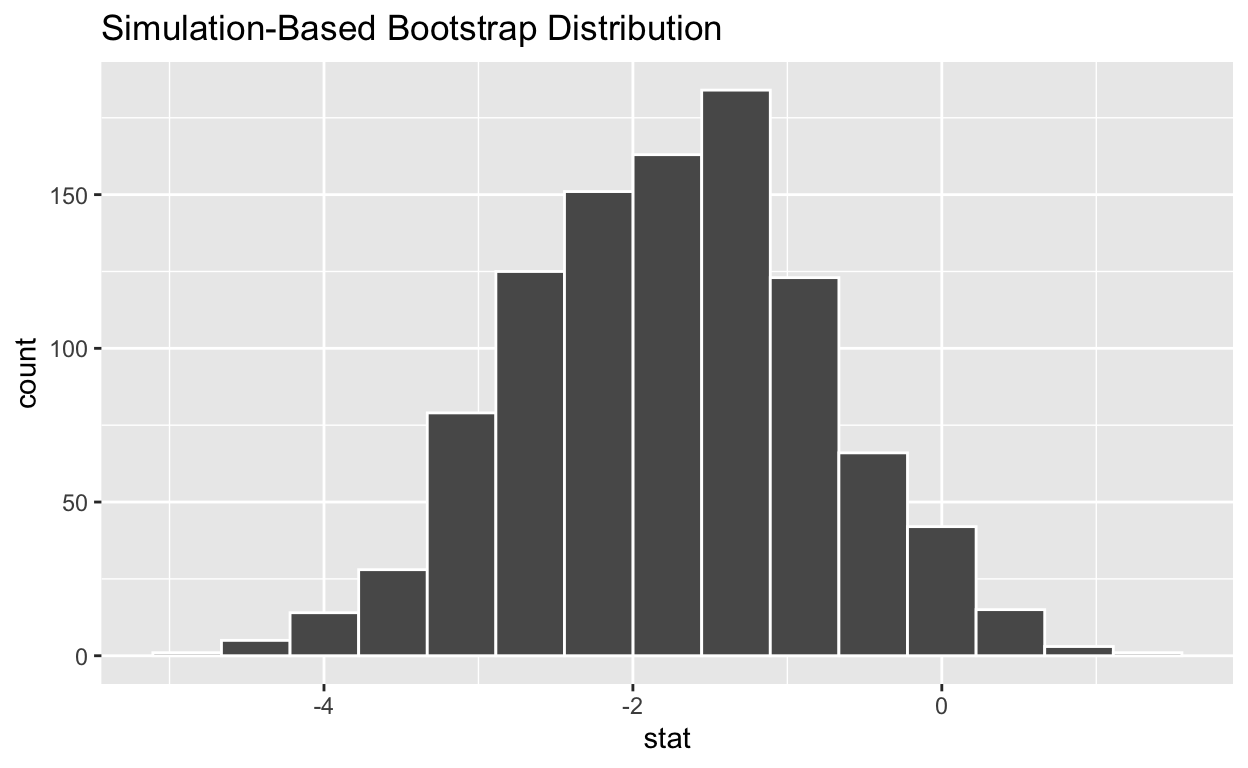
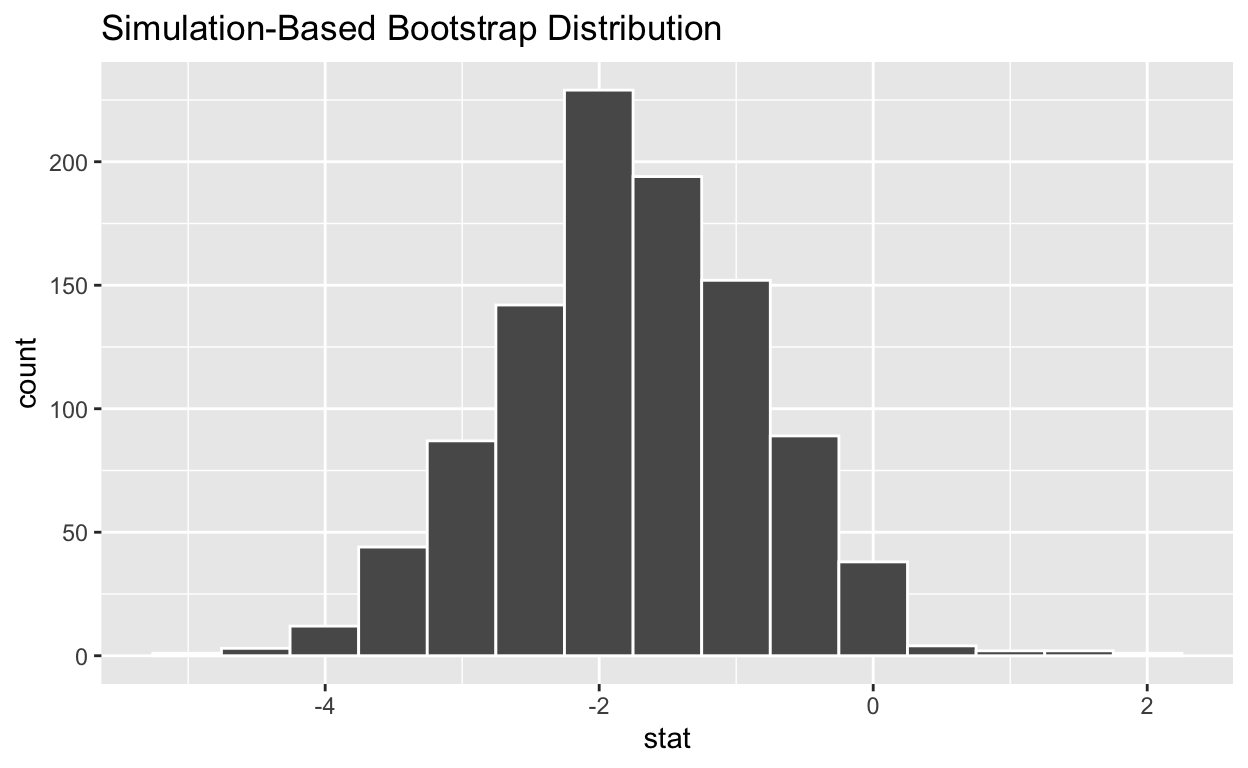
asdf

diff --git a/index.html b/index.html
@@ -115,7 +115,7 @@ code span.wa { color: #5e5e5e; font-style: italic; } /* Warning */
   <!--/radix_placeholder_rmarkdown_metadata-->
   
   <script type="text/json" id="radix-resource-manifest">
-  {"type":"character","attributes":{},"value":["data/csv_2017_2019_Male.csv","index_files/anchor-4.2.2/anchor.min.js","index_files/bowser-1.9.3/bowser.min.js","index_files/distill-2.2.21/template.v2.js","index_files/figure-html5/unnamed-chunk-1-1.png","index_files/figure-html5/unnamed-chunk-2-1.png","index_files/figure-html5/unnamed-chunk-3-1.png","index_files/figure-html5/unnamed-chunk-3-2.png","index_files/figure-html5/unnamed-chunk-3-3.png","index_files/figure-html5/unnamed-chunk-4-1.png","index_files/figure-html5/unnamed-chunk-4-2.png","index_files/figure-html5/unnamed-chunk-4-3.png","index_files/figure-html5/unnamed-chunk-4-4.png","index_files/figure-html5/unnamed-chunk-4-5.png","index_files/figure-html5/unnamed-chunk-6-1.png","index_files/header-attrs-2.17/header-attrs.js","index_files/header-attrs-2.24/header-attrs.js","index_files/jquery-3.6.0/jquery-3.6.0.js","index_files/jquery-3.6.0/jquery-3.6.0.min.js","index_files/jquery-3.6.0/jquery-3.6.0.min.map","index_files/popper-2.6.0/popper.min.js","index_files/tippy-6.2.7/tippy-bundle.umd.min.js","index_files/tippy-6.2.7/tippy-light-border.css","index_files/tippy-6.2.7/tippy.css","index_files/tippy-6.2.7/tippy.umd.min.js","index_files/webcomponents-2.0.0/webcomponents.js"]}
+  {"type":"character","attributes":{},"value":["data/csv_2017_2019_Male.csv","index_files/anchor-4.2.2/anchor.min.js","index_files/bowser-1.9.3/bowser.min.js","index_files/distill-2.2.21/template.v2.js","index_files/figure-html5/unnamed-chunk-1-1.png","index_files/figure-html5/unnamed-chunk-2-1.png","index_files/figure-html5/unnamed-chunk-3-1.png","index_files/figure-html5/unnamed-chunk-3-2.png","index_files/figure-html5/unnamed-chunk-3-3.png","index_files/figure-html5/unnamed-chunk-4-1.png","index_files/figure-html5/unnamed-chunk-4-2.png","index_files/figure-html5/unnamed-chunk-4-3.png","index_files/figure-html5/unnamed-chunk-4-4.png","index_files/figure-html5/unnamed-chunk-4-5.png","index_files/figure-html5/unnamed-chunk-6-1.png","index_files/header-attrs-2.17/header-attrs.js","index_files/header-attrs-2.24/header-attrs.js","index_files/jquery-3.6.0/jquery-3.6.0.js","index_files/jquery-3.6.0/jquery-3.6.0.min.js","index_files/jquery-3.6.0/jquery-3.6.0.min.map","index_files/kePrint-0.0.1/kePrint.js","index_files/lightable-0.0.1/lightable.css","index_files/popper-2.6.0/popper.min.js","index_files/tippy-6.2.7/tippy-bundle.umd.min.js","index_files/tippy-6.2.7/tippy-light-border.css","index_files/tippy-6.2.7/tippy.css","index_files/tippy-6.2.7/tippy.umd.min.js","index_files/webcomponents-2.0.0/webcomponents.js"]}
   </script>
   <!--radix_placeholder_navigation_in_header-->
   <!--/radix_placeholder_navigation_in_header-->
@@ -1519,10 +1519,10 @@ code span.wa { color: #5e5e5e; font-style: italic; } /* Warning */
 </div>
 
 <div class="d-article">
-<p>#Introduction</p>
+<h1 id="introduction">Introduction</h1>
 <p>My research question for this project was: Do non-coresidential fathers, fathers who do not live with their children, have different levels of engagement with their children based on their marriage status? The two marriage statuses that I was particularly interested in were fathers who were never married and fathers who were married and then divorced or annulled. My hypothesis was that fathers who were married and then divorced would have higher levels of engagement with their children because if they were in a marriage with their spouse that they had children with, then it seems like their level of engagement with their family overall would be higher than a father who was never married to his spouse.</p>
 <p>This research question is interesting to me because there are many aspects of society and law in the U.S. that emphasize the importance of the institution of marriage, particularly for family stability and the benefit of children. As a large percentage of marriages end in divorce and with marriage rates at historic lows, an interesting and common scenario to investigate is not the engagement of fathers who are still in marriages or still living with their children but fathers who are not. Is the emphasis on marriage justified by the outcomes for children of divorced parents or should the law encourage more non-traditional family structures that account for children outside of marriage. **maybe clarify this section on the stakes a little better</p>
-<p>#Data</p>
+<h1 id="data">Data</h1>
 <p>The data that I am pulling from is the <a href="https://www.cdc.gov/nchs/nsfg/index.htm">CDC’s National Survey on Family Growth</a>. The survey collects data on both men and women and data is collected through continuous field interviews. The data that I am looking at specifically is just the data collected on men ages 15-44 from 2017 to 2019. This selection of data includes 5,206 men.</p>
 <div class="layout-chunk" data-layout="l-body">
 <div class="sourceCode">
@@ -1546,7 +1546,9 @@ code span.wa { color: #5e5e5e; font-style: italic; } /* Warning */
 <span>  <span class='fu'><a href='https://dplyr.tidyverse.org/reference/filter.html'>filter</a></span><span class='op'>(</span><span class='va'>NRVISIT04</span> <span class='op'>!=</span> <span class='st'>"NA"</span> <span class='op'>&amp;</span> <span class='va'>NRVISIT04</span> <span class='op'>!=</span> <span class='st'>"Not ascertained"</span><span class='op'>)</span> <span class='op'>|&gt;</span> </span>
 <span>  <span class='fu'><a href='https://dplyr.tidyverse.org/reference/mutate.html'>mutate</a></span><span class='op'>(</span>visit_bool_04_1 <span class='op'>=</span> <span class='fu'><a href='https://dplyr.tidyverse.org/reference/case_when.html'>case_when</a></span><span class='op'>(</span><span class='va'>NRVISIT04</span> <span class='op'>==</span> <span class='st'>"Not at all"</span> <span class='op'>~</span> <span class='fl'>0</span>, <span class='va'>NRVISIT04</span> <span class='op'>==</span> <span class='st'>"Less than once a week"</span> <span class='op'>~</span> <span class='fl'>0.5</span>, <span class='va'>NRVISIT04</span> <span class='op'>==</span> <span class='st'>"About once a week"</span> <span class='op'>~</span> <span class='fl'>1</span>, <span class='va'>NRVISIT04</span> <span class='op'>==</span> <span class='st'>"Several times a week"</span> <span class='op'>~</span> <span class='fl'>3</span>, <span class='va'>NRVISIT04</span> <span class='op'>==</span> <span class='st'>"Every day (at least once a day)"</span> <span class='op'>~</span> <span class='fl'>7</span><span class='op'>)</span><span class='op'>)</span></span>
 <span></span>
-<span><span class='va'>visit04_1</span> <span class='op'>|&gt;</span> <span class='fu'><a href='https://ggplot2.tidyverse.org/reference/ggplot.html'>ggplot</a></span><span class='op'>(</span><span class='fu'><a href='https://ggplot2.tidyverse.org/reference/aes.html'>aes</a></span><span class='op'>(</span>x<span class='op'>=</span><span class='va'>visit_bool_04_1</span><span class='op'>)</span><span class='op'>)</span> <span class='op'>+</span> <span class='fu'><a href='https://ggplot2.tidyverse.org/reference/geom_histogram.html'>geom_histogram</a></span><span class='op'>(</span>binwidth <span class='op'>=</span> <span class='fl'>0.5</span>, fill <span class='op'>=</span> <span class='st'>"#004080"</span><span class='op'>)</span> <span class='op'>+</span> <span class='fu'><a href='https://ggplot2.tidyverse.org/reference/labs.html'>labs</a></span><span class='op'>(</span>title <span class='op'>=</span> <span class='st'>"Distribution of visits per week, both types of non-coresidential fathers"</span>, x <span class='op'>=</span> <span class='st'>"Visits per Week"</span>, y <span class='op'>=</span> <span class='st'>"Count"</span><span class='op'>)</span></span></code></pre>
+<span><span class='co'>#Visualization of number of visits per week</span></span>
+<span><span class='va'>visit04_1</span> <span class='op'>|&gt;</span> </span>
+<span>  <span class='fu'><a href='https://ggplot2.tidyverse.org/reference/ggplot.html'>ggplot</a></span><span class='op'>(</span><span class='fu'><a href='https://ggplot2.tidyverse.org/reference/aes.html'>aes</a></span><span class='op'>(</span>x<span class='op'>=</span><span class='va'>visit_bool_04_1</span><span class='op'>)</span><span class='op'>)</span> <span class='op'>+</span> <span class='fu'><a href='https://ggplot2.tidyverse.org/reference/geom_histogram.html'>geom_histogram</a></span><span class='op'>(</span>binwidth <span class='op'>=</span> <span class='fl'>0.5</span>, fill <span class='op'>=</span> <span class='st'>"#004080"</span><span class='op'>)</span> <span class='op'>+</span> <span class='fu'><a href='https://ggplot2.tidyverse.org/reference/labs.html'>labs</a></span><span class='op'>(</span>title <span class='op'>=</span> <span class='st'>"Distribution of visits per week, both types of non-coresidential fathers"</span>, x <span class='op'>=</span> <span class='st'>"Visits per Week"</span>, y <span class='op'>=</span> <span class='st'>"Count"</span><span class='op'>)</span></span></code></pre>
 </div>
 <p><img src="index_files/figure-html5/unnamed-chunk-2-1.png" width="624" /></p>
 </div>
@@ -4396,7 +4398,7 @@ R2 Adj.
 <pre><code># A tibble: 1 × 2
   lower_ci upper_ci
      &lt;dbl&gt;    &lt;dbl&gt;
-1    -3.31   -0.121</code></pre>
+1    -3.37   -0.271</code></pre>
 <div class="sourceCode">
 <pre class="sourceCode r"><code class="sourceCode r"><span><span class='fu'><a href='https://infer.tidymodels.org/reference/visualize.html'>visualize</a></span><span class='op'>(</span><span class='va'>ate_satvis04</span><span class='op'>)</span></span></code></pre>
 </div>
@@ -4405,7 +4407,7 @@ R2 Adj.
 <pre class="sourceCode r"><code class="sourceCode r"><span><span class='va'>ate_satvis04_se</span> <span class='op'>&lt;-</span> <span class='fu'><a href='https://rdrr.io/r/stats/sd.html'>sd</a></span><span class='op'>(</span><span class='va'>ate_satvis04</span><span class='op'>$</span><span class='va'>stat</span><span class='op'>)</span></span>
 <span><span class='va'>ate_satvis04_se</span> <span class='co'>#0.983</span></span></code></pre>
 </div>
-<pre><code>[1] 0.9749915</code></pre>
+<pre><code>[1] 0.9361703</code></pre>
 <div class="sourceCode">
 <pre class="sourceCode r"><code class="sourceCode r"><span><span class='co'>#The s.e. on the no-controls regression is 0.930</span></span>
 <span><span class='co'>#The s.e. on the regression with controls is 1.108. So that is one limitation of the model, the standard error increases and the adjusted R^2 decreases but the effect is larger and the p-value decreases. Overall I'd value the higher statistical significance more and so would point to the regression with controls as the most useful analysis here. </span></span></code></pre>
